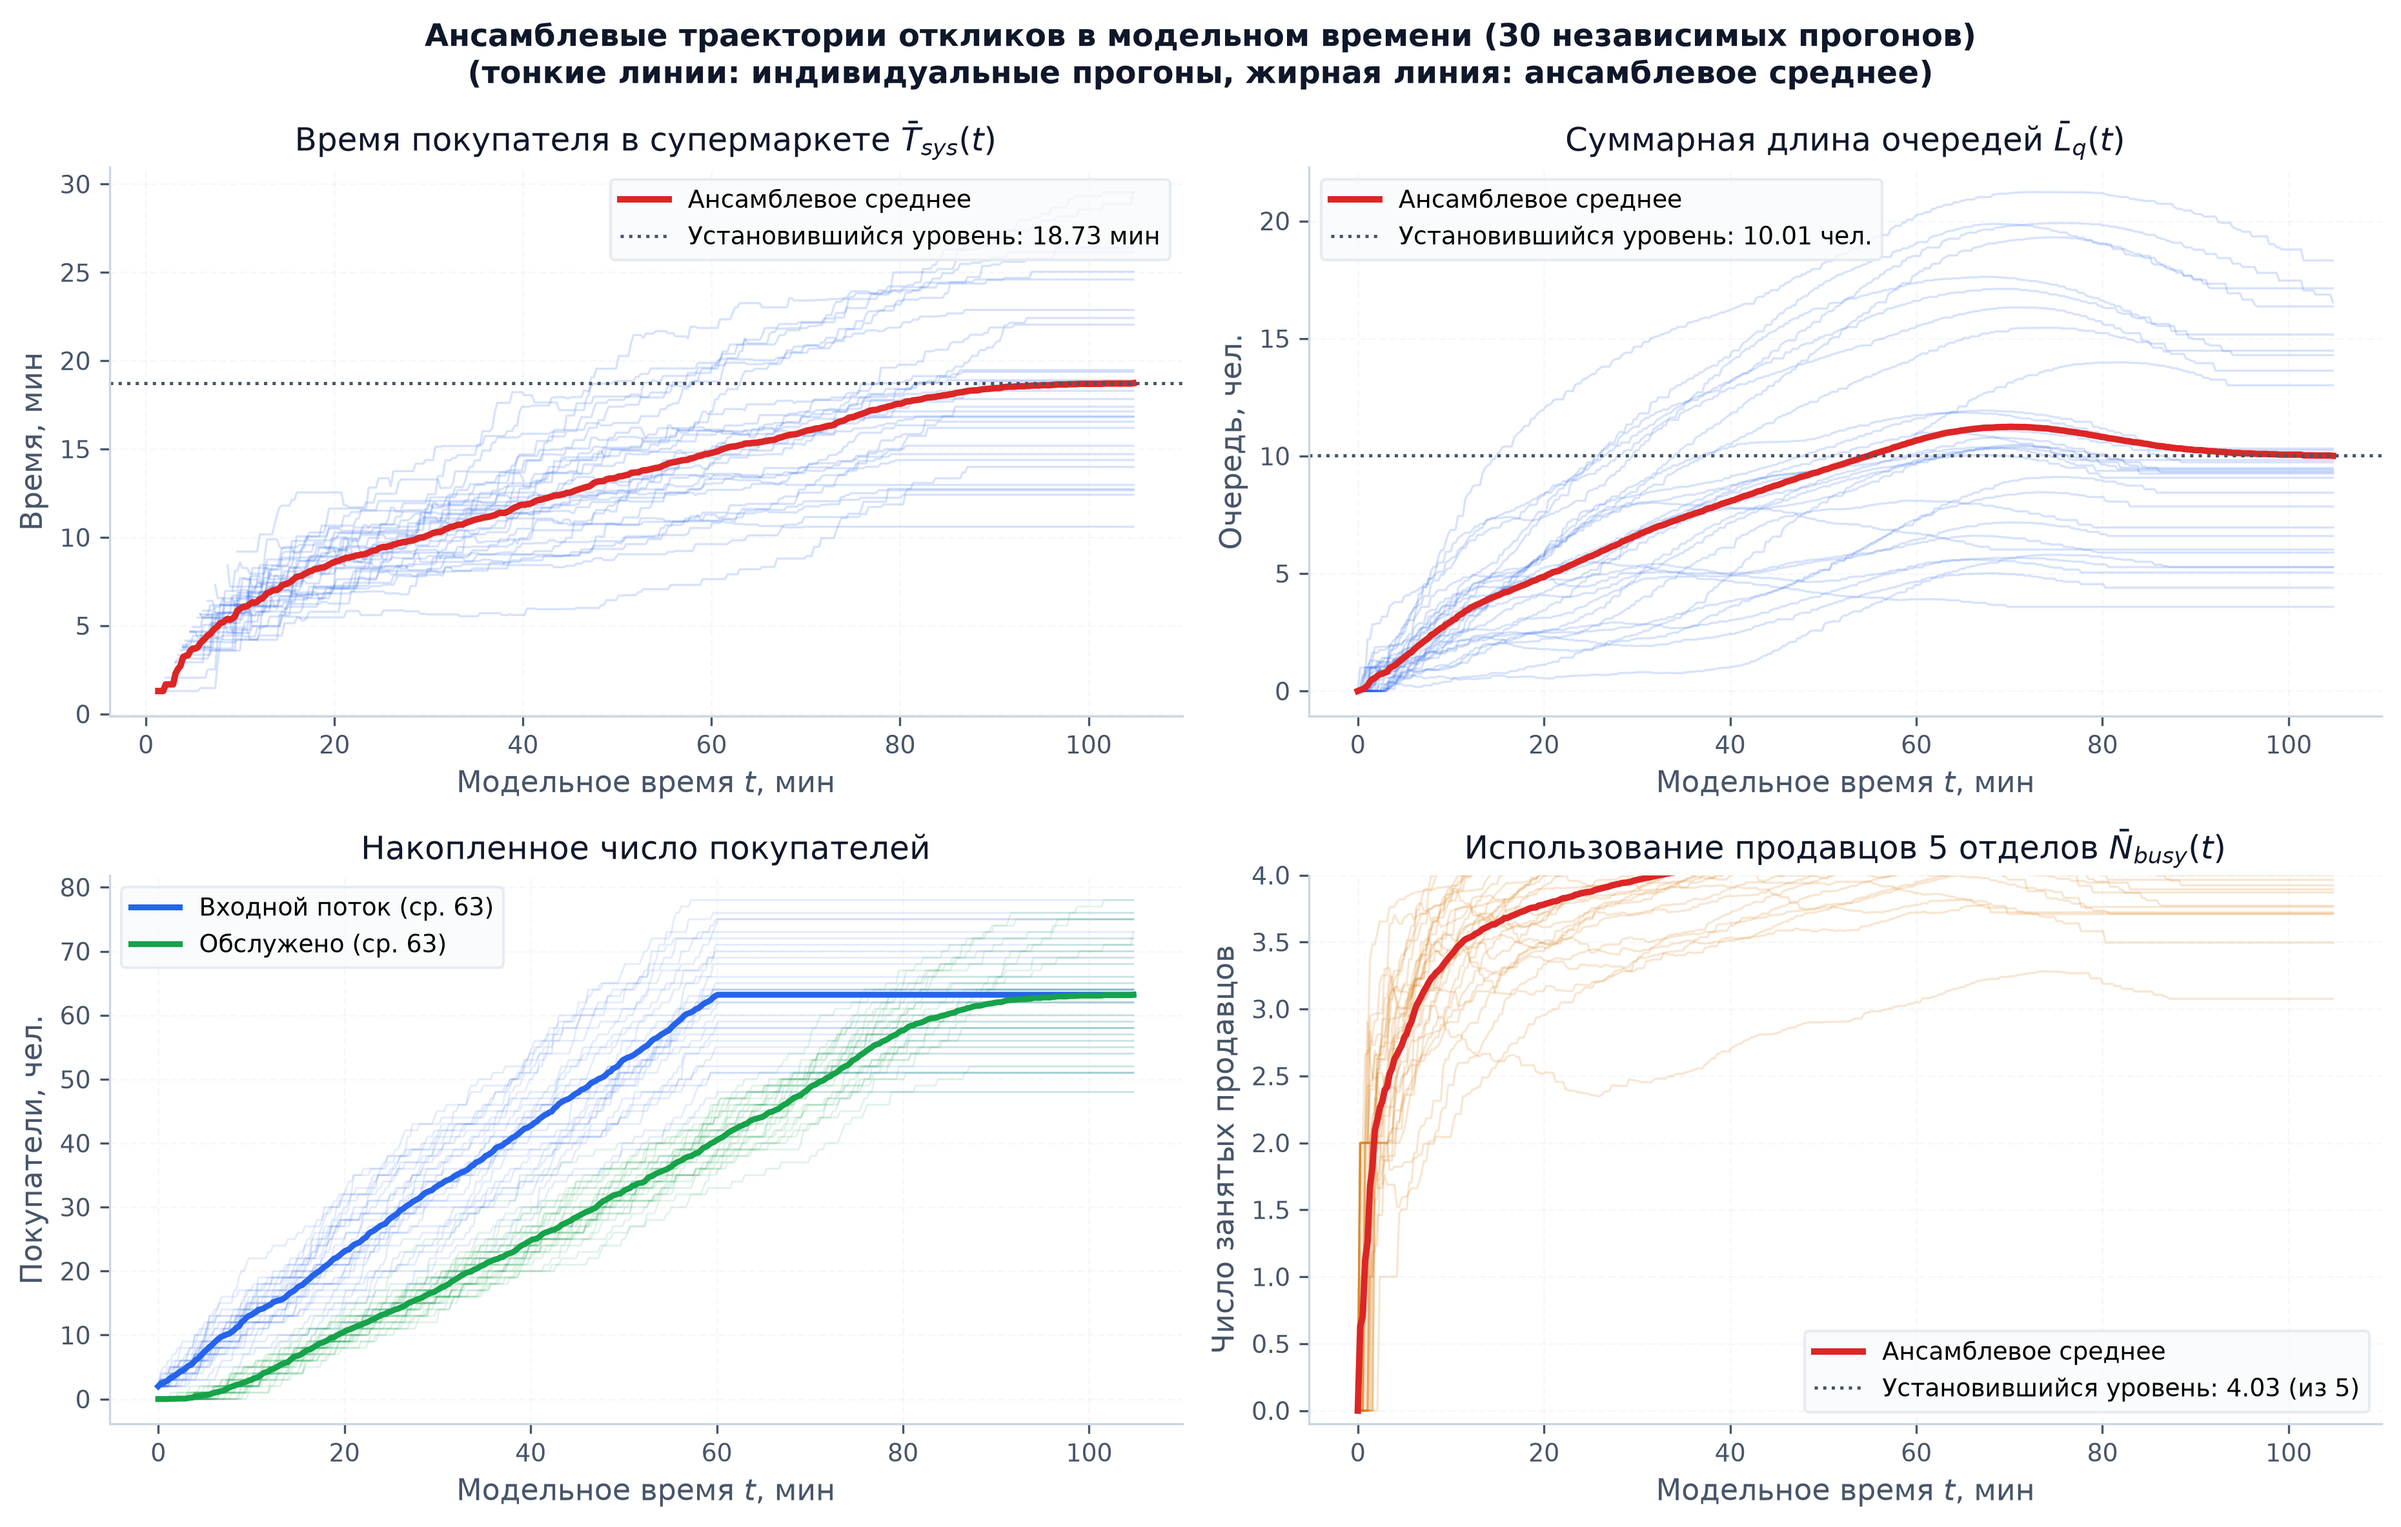
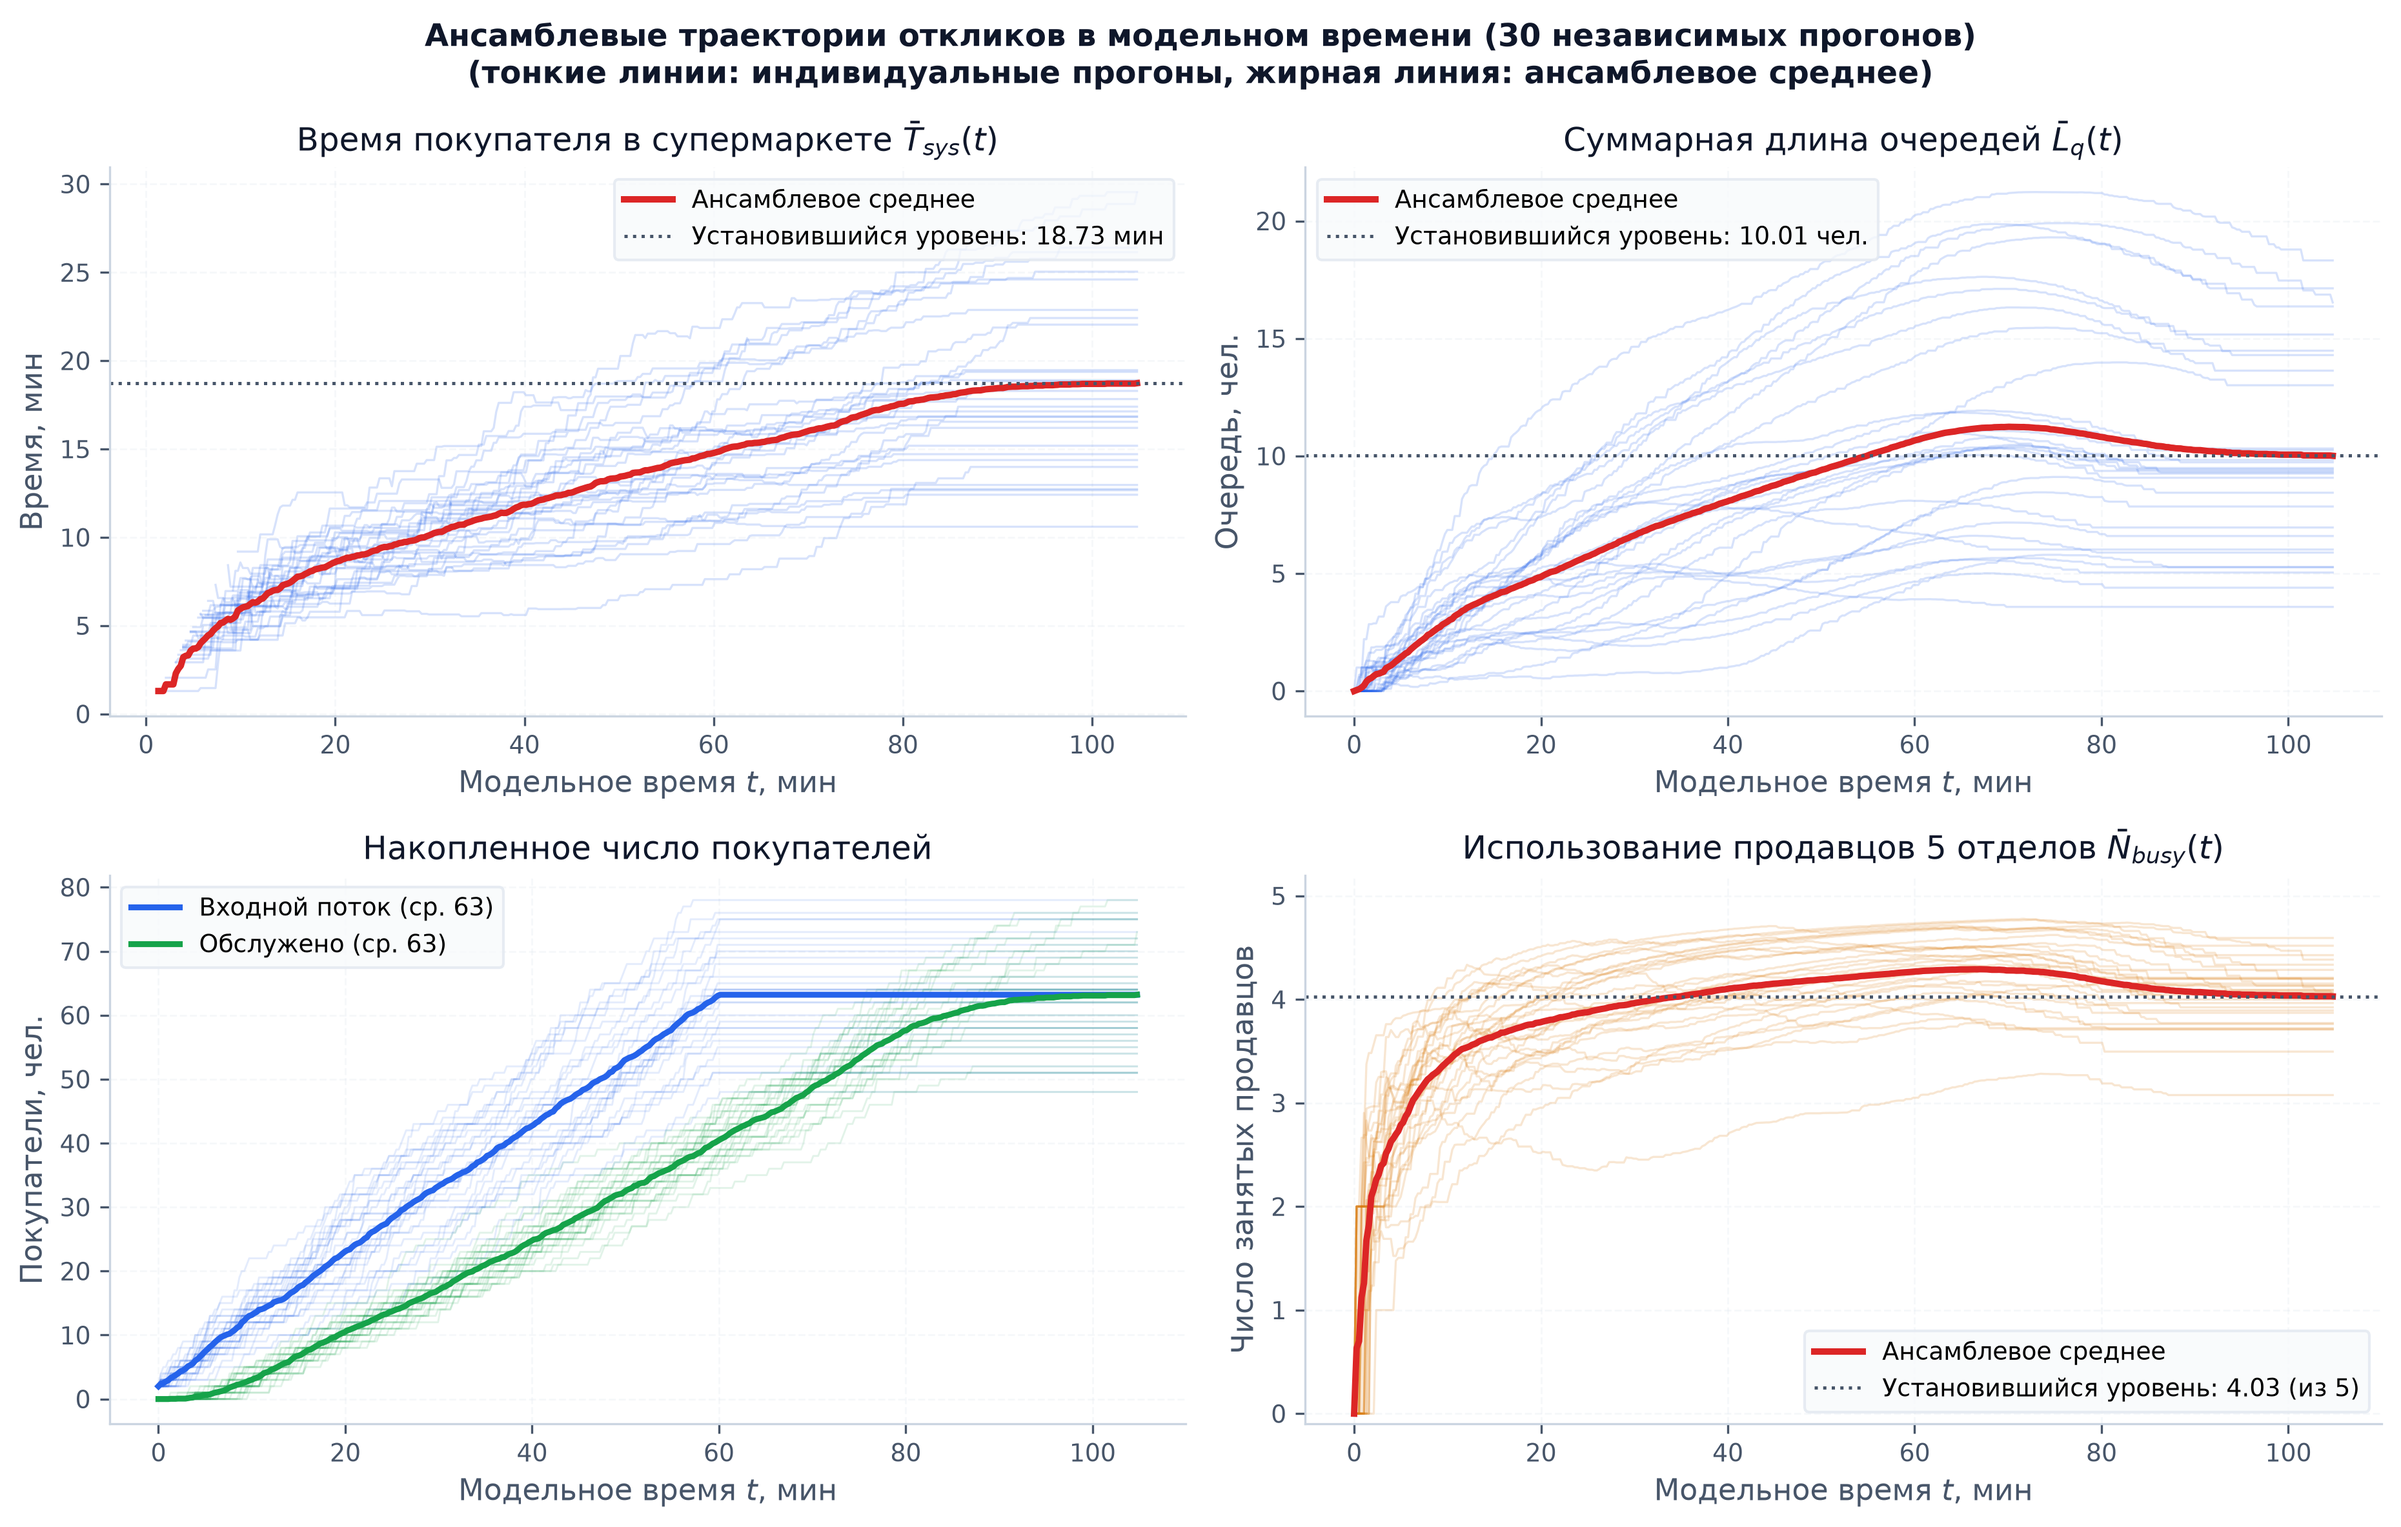
fix(plots): display all 1000 replications in run_to_run and scale sellers axis to 5 in multi_run

diff --git a/lab2/src/plots.py b/lab2/src/plots.py
@@ -236,7 +236,7 @@ def plot_multi_run(sim_runs: Sequence[Any], out_dir: Path | str, name: str = "mu
     final_s = ens_sellers[-1]
     ax.axhline(final_s, color=INK2, linestyle=":", linewidth=1.2,
                label=f"Установившийся уровень: {final_s:.2f} (из 5)")
-    ax.set_ylim(-0.1, 4.0)
+    ax.set_ylim(-0.1, 5.2)
     ax.set_title("Использование продавцов 5 отделов $\\bar{N}_{busy}(t)$")
     ax.set_xlabel("Модельное время $t$, мин")
     ax.set_ylabel("Число занятых продавцов")
@@ -271,7 +271,9 @@ def plot_run_to_run(results_list: Sequence[Dict[str, float]], out_dir: Path | st
     for ax, key, title, unit, color in configs:
         vals = np.array([r[key] for r in results_list])
         cum_mean = np.cumsum(vals) / n
-        ax.scatter(n, vals, color=color, alpha=0.35, s=12, label="Значение в прогоне")
+        pt_size = 3.5 if len(results_list) > 150 else 12
+        pt_alpha = 0.20 if len(results_list) > 150 else 0.35
+        ax.scatter(n, vals, color=color, alpha=pt_alpha, s=pt_size, label="Значение в прогоне")
         ax.plot(n, cum_mean, color=INK, linewidth=2.2, label=f"Кумулятивное среднее ({cum_mean[-1]:.2f})")
         # 95% доверительный интервал для среднего
         if len(vals) > 5:

diff --git a/lab2/lr22/run_lr22.py b/lab2/lr22/run_lr22.py
@@ -171,8 +171,8 @@ def run_verification_study(plots_dir: str, data_path: str, num_replications: Opt
 
     mean_dept_utils = [u / N_REPS for u in dept_utils_accum]
 
-    # Академический дашборд сходимости run-to-run (первые 60 прогонов для четкости точек)
-    run_to_run_path = plot_run_to_run(rep_results[:60], plots_dir, "run_to_run.png")
+    # Академический дашборд сходимости run-to-run по всей серии независимых репликаций
+    run_to_run_path = plot_run_to_run(rep_results, plots_dir, "run_to_run.png")
     print(f" -> Сохранен дашборд сходимости по репликациям: {run_to_run_path}")
 
     # График сходимости (1000 репликаций)
